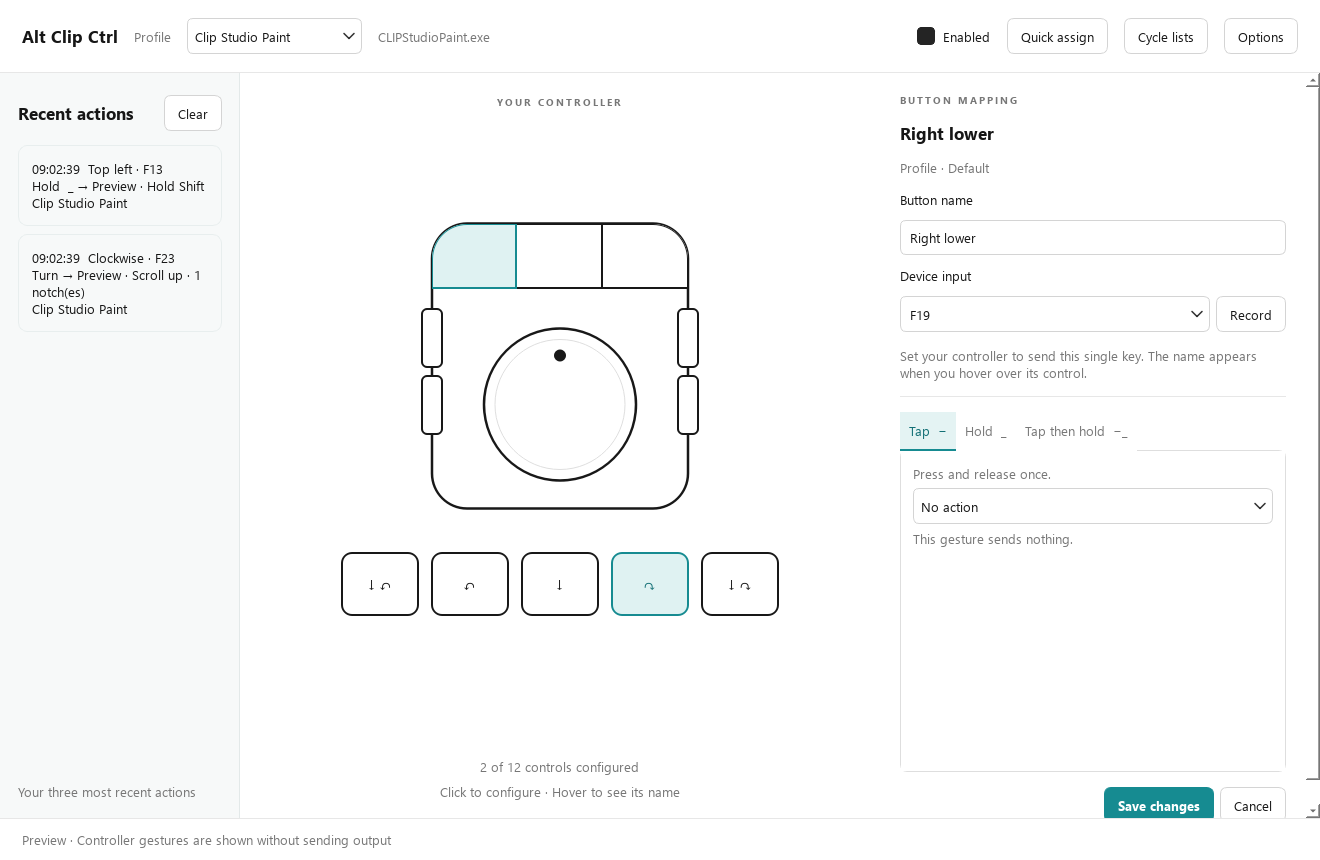
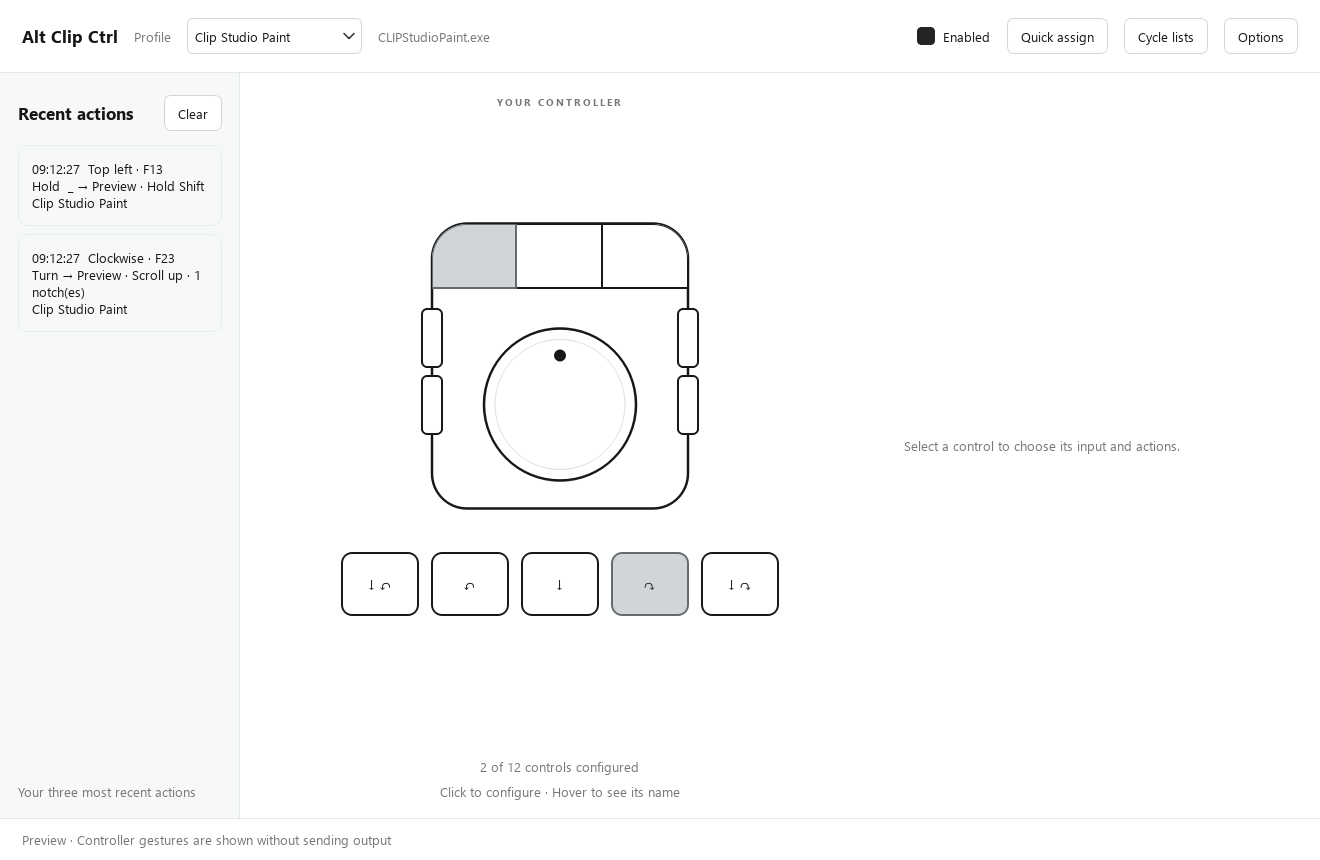
Separate teal selection from grey physical input highlights

diff --git a/altclipctrl/ui.py b/altclipctrl/ui.py
@@ -493,23 +493,32 @@ class DeviceButton(QPushButton):
         painter = QPainter(self)
         painter.setRenderHint(QPainter.RenderHint.Antialiasing)
         rect = QRectF(self.rect()).adjusted(2, 2, -2, -2)
-        active = self.underMouse() or self.isDown() or self.flash or self.input_held or self.assigning or self.selected
-        painter.setBrush(QColor("#dff2f2" if active else "#ffffff"))
-        painter.setPen(QPen(QColor("#168b91" if active else "#181818"), 2))
+        pressed = self.flash or self.input_held
+        chosen = self.selected or self.assigning
+        if pressed:
+            fill, border, text = "#d1d5d8", "#626b70", "#252b2e"
+        elif chosen:
+            fill, border, text = "#168b91", "#126f75", "#ffffff"
+        elif self.underMouse() or self.isDown():
+            fill, border, text = "#f0f2f2", "#626b70", "#181818"
+        else:
+            fill, border, text = "#ffffff", "#181818", "#181818"
+        painter.setBrush(QColor(fill))
+        painter.setPen(QPen(QColor(border), 2))
         if self.slot.startswith("top_"):
             index = ("top_left", "top_middle", "top_right").index(self.slot)
             width = self.width()
             outline = QPainterPath()
             outline.addRoundedRect(QRectF(1-index*width, 1, width*3-2, 285), 35, 35)
             painter.setClipPath(outline)
-            painter.fillRect(self.rect(), QColor("#dff2f2" if active else "white"))
+            painter.fillRect(self.rect(), QColor(fill))
             painter.drawPath(outline)
             painter.drawLine(0, self.height()-1, width, self.height()-1)
             if index < 2:
                 painter.drawLine(width-1, 0, width-1, self.height())
         else:
             painter.drawRoundedRect(rect, 10 if not self.compact else 5, 10 if not self.compact else 5)
-        painter.setPen(QColor("#126f75" if active else "#181818"))
+        painter.setPen(QColor(text))
         if self.slot in ROTATIONS or self.slot == "neutral":
             painter.setFont(QFont("Segoe UI", 11, QFont.Weight.DemiBold))
             painter.drawText(rect, Qt.AlignmentFlag.AlignCenter, self.number)
@@ -1129,7 +1138,6 @@ class MainWindow(QMainWindow):
         layout.addWidget(self.status)
         self.profiles.currentIndexChanged.connect(self.choose_profile)
         self.refresh()
-        self.edit_binding("right_lower")
         self.clock = QTimer(self)
         self.clock.setInterval(8)
         self.clock.timeout.connect(self.tick)

diff --git a/tests/test_workspace.py b/tests/test_workspace.py
@@ -20,6 +20,9 @@ class WorkspaceTests(unittest.TestCase):
         root.mkdir(exist_ok=True)
         self.temp = tempfile.TemporaryDirectory(dir=root)
         self.window = MainWindow(Path(self.temp.name) / 'settings.json', diagnostic=True)
+        self.assertIsNone(self.window.inspector)
+        self.assertFalse(any(b.selected or b.input_held or b.flash for b in self.window.map.buttons.values()))
+        self.window.edit_binding('right_lower')
 
     def tearDown(self):
         self.window.close_inspector()
@@ -98,3 +101,24 @@ class WorkspaceTests(unittest.TestCase):
         self.assertEqual(editor.read()['value']['cw'], action('shortcut', 'F24'))
         self.assertTrue(window.save_inspector())
         self.assertEqual(load(window.path)['profiles'][0]['bindings']['right_lower']['hold']['value']['cw'], action('shortcut', 'F24'))
+
+    def test_physical_press_is_grey_and_release_restores_selection(self):
+        window = self.window
+        for slot in ('right_lower', 'top_left'):
+            window.edit_binding(slot)
+            widget = window.map.buttons[slot]
+            def fill():
+                image = widget.grab().toImage()
+                return image.pixelColor(image.width() // 2, image.height() // 2).name()
+            self.assertEqual(fill(), '#168b91')
+            window.map.set_held(widget.signal, True)
+            self.assertEqual(fill(), '#d1d5d8')
+            window.map.set_held(widget.signal, False)
+            window.map.unpulse(widget)
+            self.assertEqual(fill(), '#168b91')
+            self.assertTrue(widget.selected)
+        other = window.map.buttons['left_lower']
+        window.map.set_held(other.signal, True)
+        image = other.grab().toImage()
+        self.assertEqual(image.pixelColor(image.width() // 2, image.height() // 2).name(), '#d1d5d8')
+        self.assertFalse(other.selected)

diff --git a/altclipctrl/__init__.py b/altclipctrl/__init__.py
@@ -1,4 +1,4 @@
 """Alt Clip Ctrl: dedicated device signals, independent from keyboard modifiers."""
 
-__version__ = "2.3.1"
+__version__ = "2.3.2"
 DISPLAY_NAME = "Alt Clip Ctrl"

diff --git a/docs/AltClipCtrl.md b/docs/AltClipCtrl.md
@@ -161,3 +161,5 @@ Physical dial latency, monitor presentation and subjective scrolling feel requir
 ## Workspace layout (2.3)
 
 Choose a control in the central schematic to edit it in the right panel. The top three face buttons share the main body outline. Recent actions stay on the left, with only the three latest entries. Save changes applies the selected control; Cancel discards its draft. Switching controls, changing profiles, opening Options or starting Quick assign asks about unsaved changes. The top Cycle lists button opens the lists tab directly. The application and running Windows taskbar use the Alt Clip Ctrl icon.
+
+The workspace opens without a selected control. Clicking a control to edit it marks it teal. Physical button presses and dial signals light their controls grey; on release, an edited control returns to teal. Hovering alone does not select a control.

diff --git a/README.md b/README.md
@@ -1,6 +1,6 @@
 # Alt Clip Ctrl
 
-Alt Clip Ctrl 2.3.1 maps a programmable dial and its buttons to keyboard shortcuts, scrolling, tool cycles and application profiles. The new app was previously called Inbetween.
+Alt Clip Ctrl 2.3.2 maps a programmable dial and its buttons to keyboard shortcuts, scrolling, tool cycles and application profiles. The new app was previously called Inbetween.
 
 ![Alt Clip Ctrl controller map](docs/altclipctrl-main.png)
 
